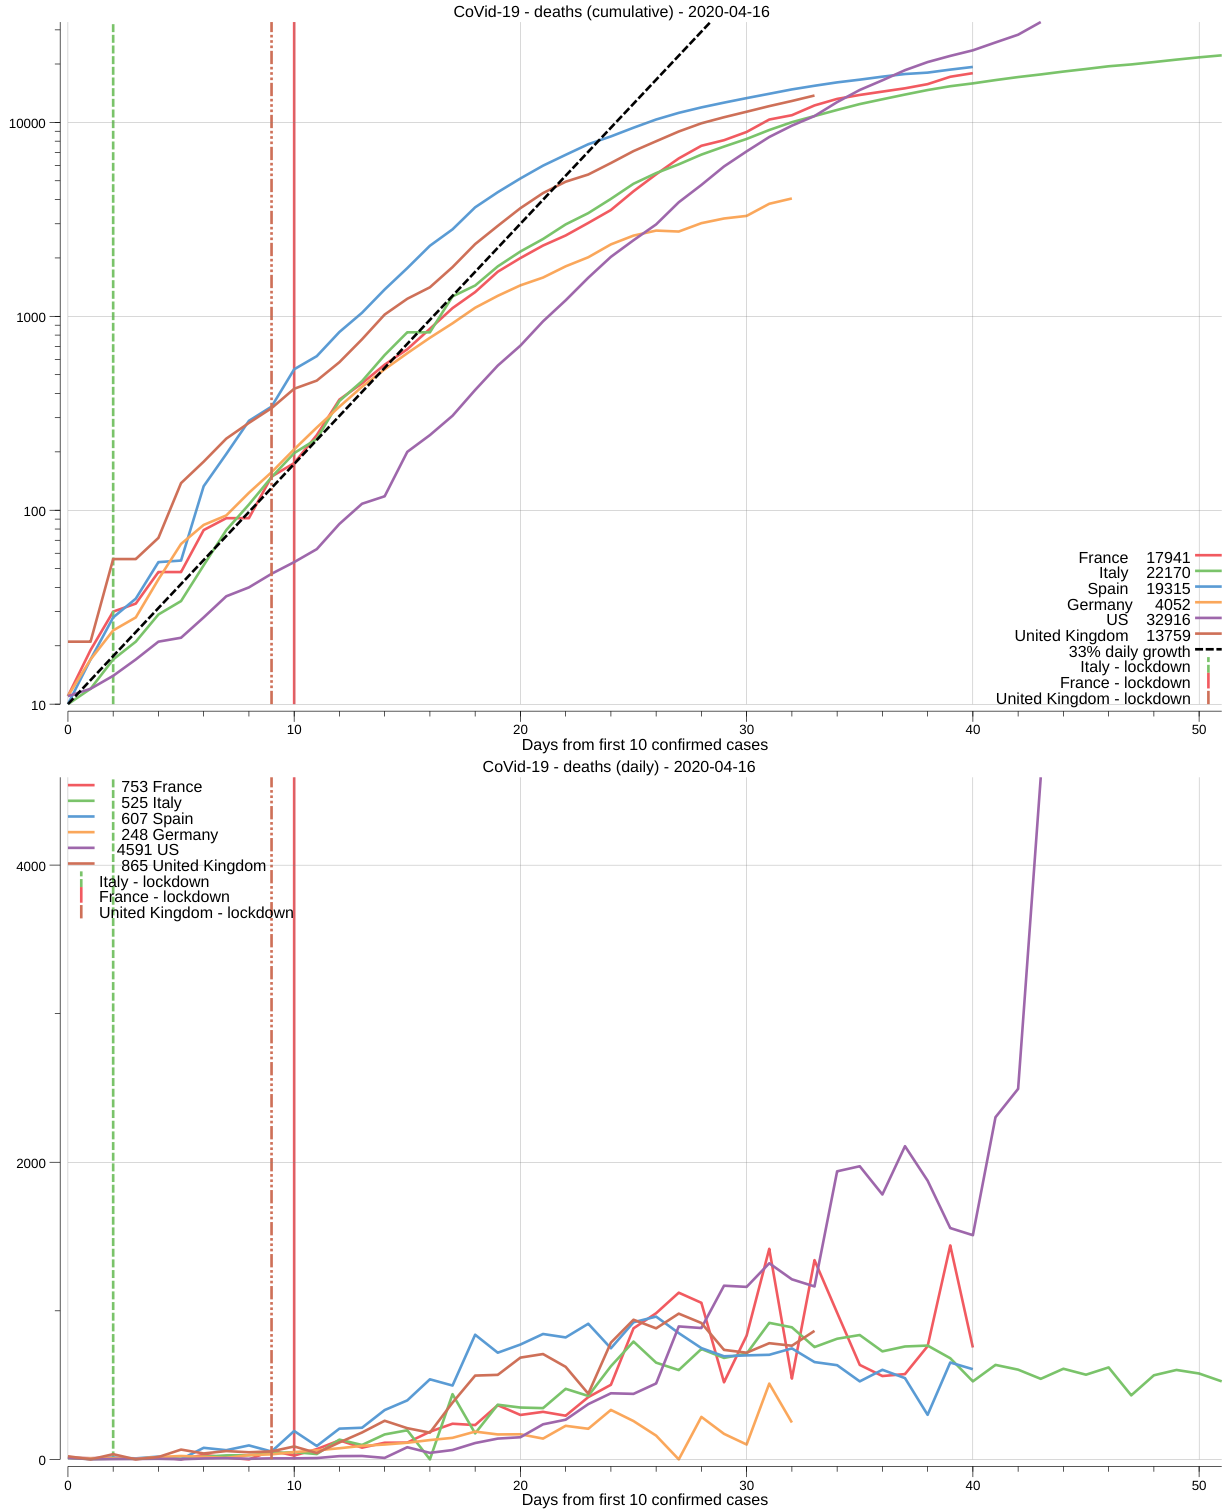
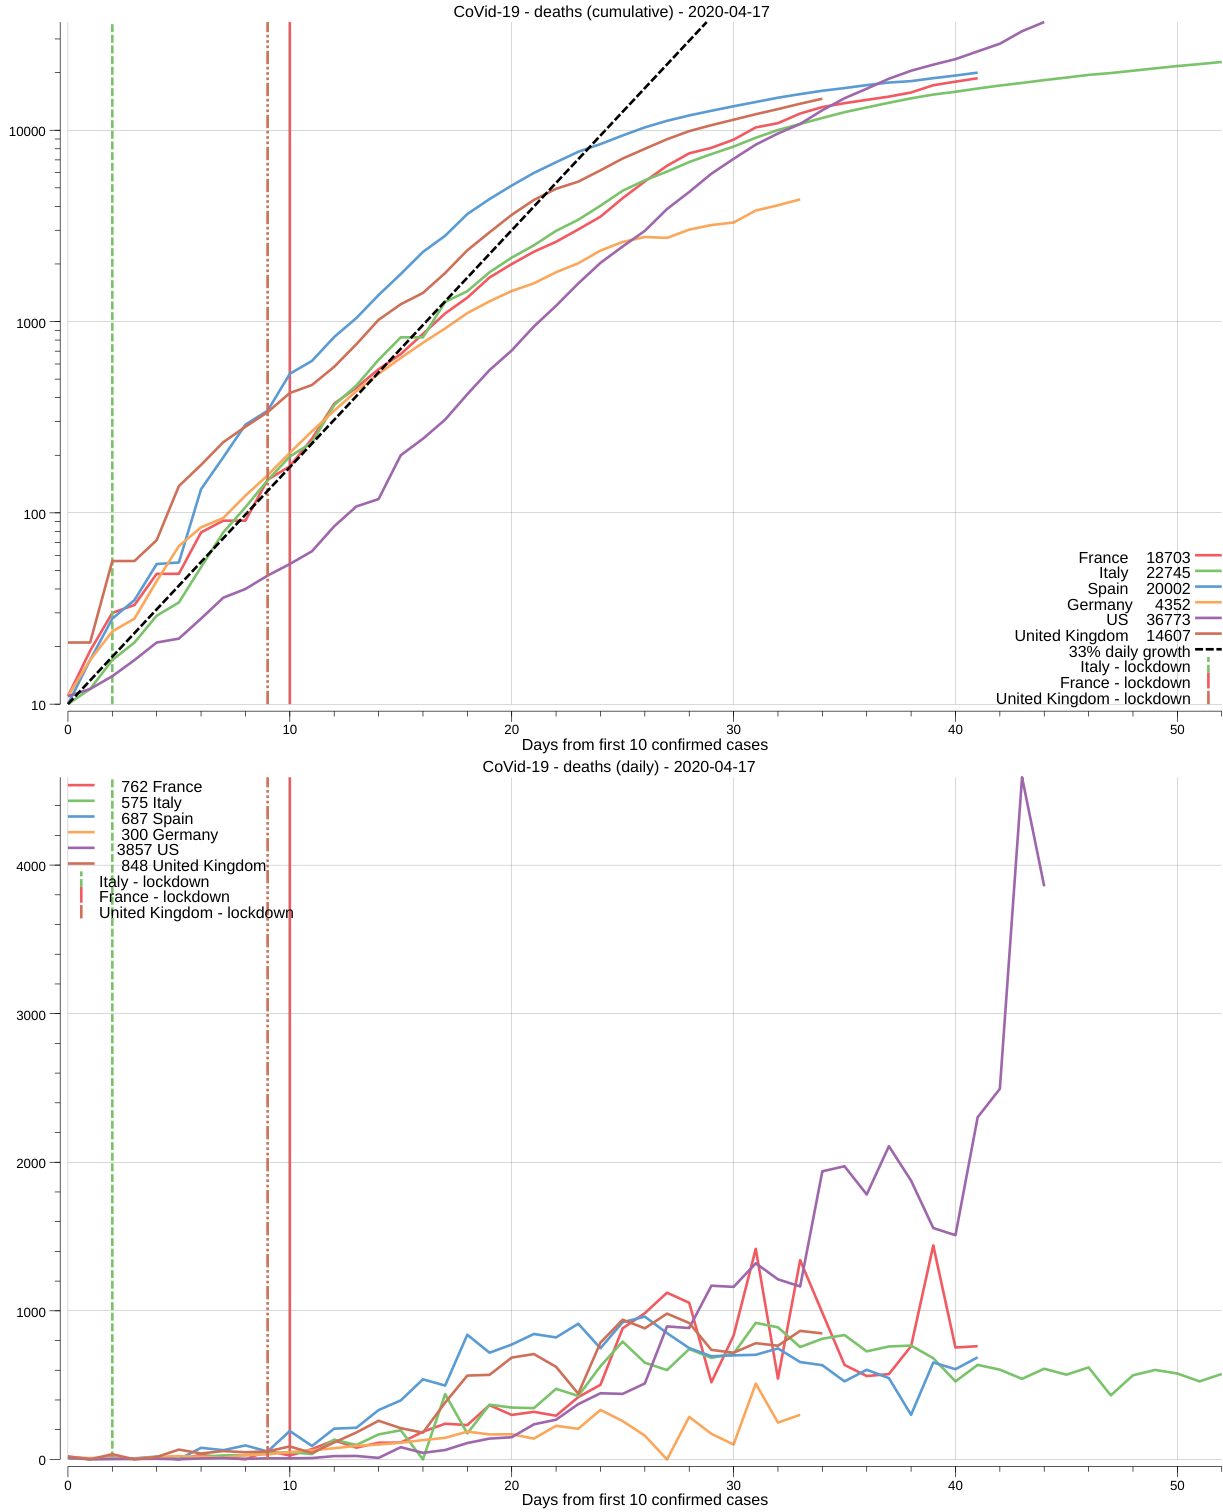
all: update for 2020-04-17

diff --git a/main.go b/main.go
@@ -152,6 +152,7 @@ func genImage(title string, cutoff float64) (image.Image, error) {
 		p.Title.Text = "CoVid-19 - " + title + " (daily) - " + date.Format("2006-01-02")
 		p.X.Label.Text = fmt.Sprintf("Days from first %d confirmed cases", int(cutoff))
 		p.X.Tick.Marker = hplot.Ticks{N: 20}
+		p.Y.Tick.Marker = hplot.Ticks{N: 20}
 		p.Legend.Left = true
 		p.Legend.Top = true
 
@@ -343,6 +344,7 @@ func cleanup(title string, ds *Dataset) {
 		tbl[45] = 103573 // 2020-04-14
 		tbl[46] = 106206 // 2020-04-15
 		tbl[47] = 108847 // 2020-04-16
+		tbl[48] = 109252 // 2020-04-17
 	default:
 		panic(fmt.Errorf("invalid title: %q", title))
 	}
